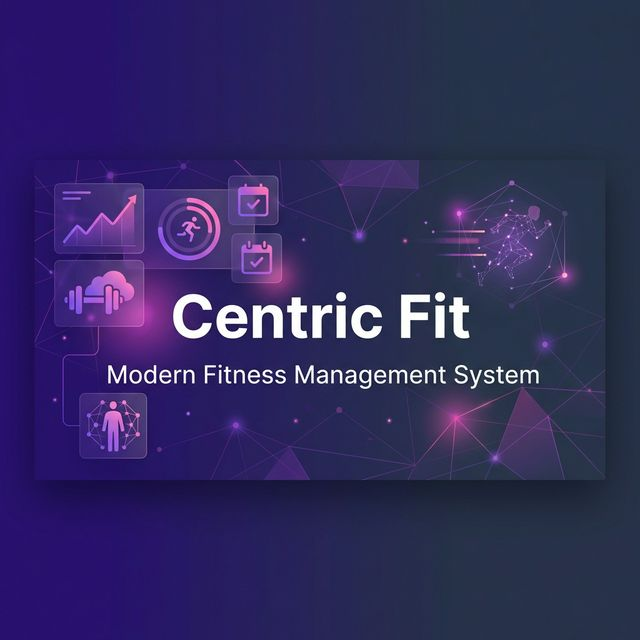
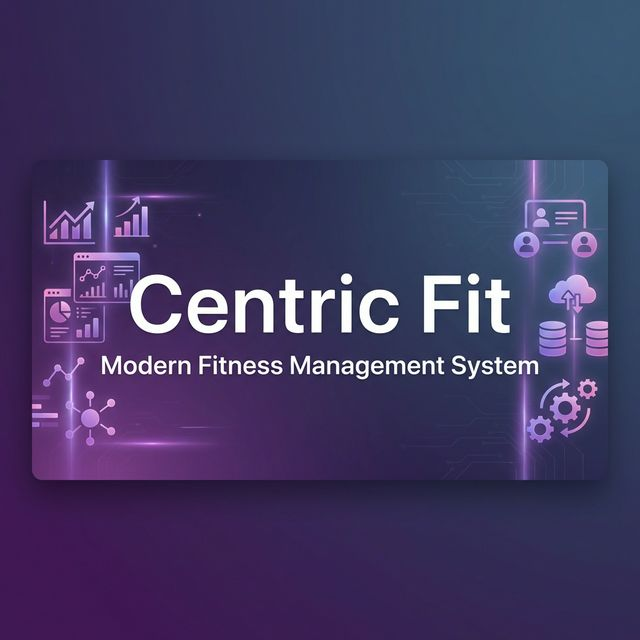
feat: footer links and og image

diff --git a/src/app/page.tsx b/src/app/page.tsx
@@ -83,7 +83,7 @@ function HomeComponent() {
     <MouseGradient>
       <div className="min-h-screen bg-gradient-to-br from-slate-900 via-purple-900 to-slate-900">
         {/* Enhanced animated background - Performance Optimized */}
-        <div className="absolute inset-0 overflow-hidden">
+        <div className="absolute inset-0 overflow-hidden pointer-events-none">
           {/* Primary background elements - visible on all devices */}
           <div className="absolute -top-20 sm:-top-40 -right-20 sm:-right-40 w-40 sm:w-80 h-40 sm:h-80 bg-purple-500 rounded-full mix-blend-multiply filter blur-xl opacity-20 motion-safe:animate-pulse"></div>
           <div className="absolute -bottom-20 sm:-bottom-40 -left-20 sm:-left-40 w-40 sm:w-80 h-40 sm:h-80 bg-blue-500 rounded-full mix-blend-multiply filter blur-xl opacity-20 motion-safe:animate-pulse motion-safe:delay-1000"></div>

diff --git a/src/components/layout/AdaptiveNavigation.tsx b/src/components/layout/AdaptiveNavigation.tsx
@@ -114,7 +114,7 @@ export function AdaptiveNavigation({ className }: AdaptiveNavigationProps) {
   const navLinks = [
     { href: '#features', label: 'Features' },
     { href: '#pricing', label: 'Pricing' },
-    { href: '#testimonials', label: 'Reviews' }
+    { href: '#early-access', label: 'Early Access' }
   ]
 
   // Show skeleton during loading
@@ -586,7 +586,7 @@ export function AdaptiveFinalCTA({ className }: { className?: string }) {
           <span className="hidden sm:inline">•</span>
           <span>✓ Cancel anytime</span>
         </div>
-        <p className="text-xs sm:text-sm px-4">Join the 2,500+ fitness professionals already transforming their business operations</p>
+        <p className="text-xs sm:text-sm px-4">Join forward-thinking fitness professionals transforming their business operations</p>
       </div>
     </div>
   )

diff --git a/src/app/layout.tsx b/src/app/layout.tsx
@@ -26,7 +26,7 @@ export const viewport: Viewport = {
 };
 
 export const metadata: Metadata = {
-  title: "Centric Fit - Fitness Management System",
+  title: "Centric Fit - Modern Fitness Management Software",
   description: "A comprehensive Fitness management system for modern fitness businesses. Member tracking, analytics, subscriptions, and more.",
   appleWebApp: {
     capable: true,
